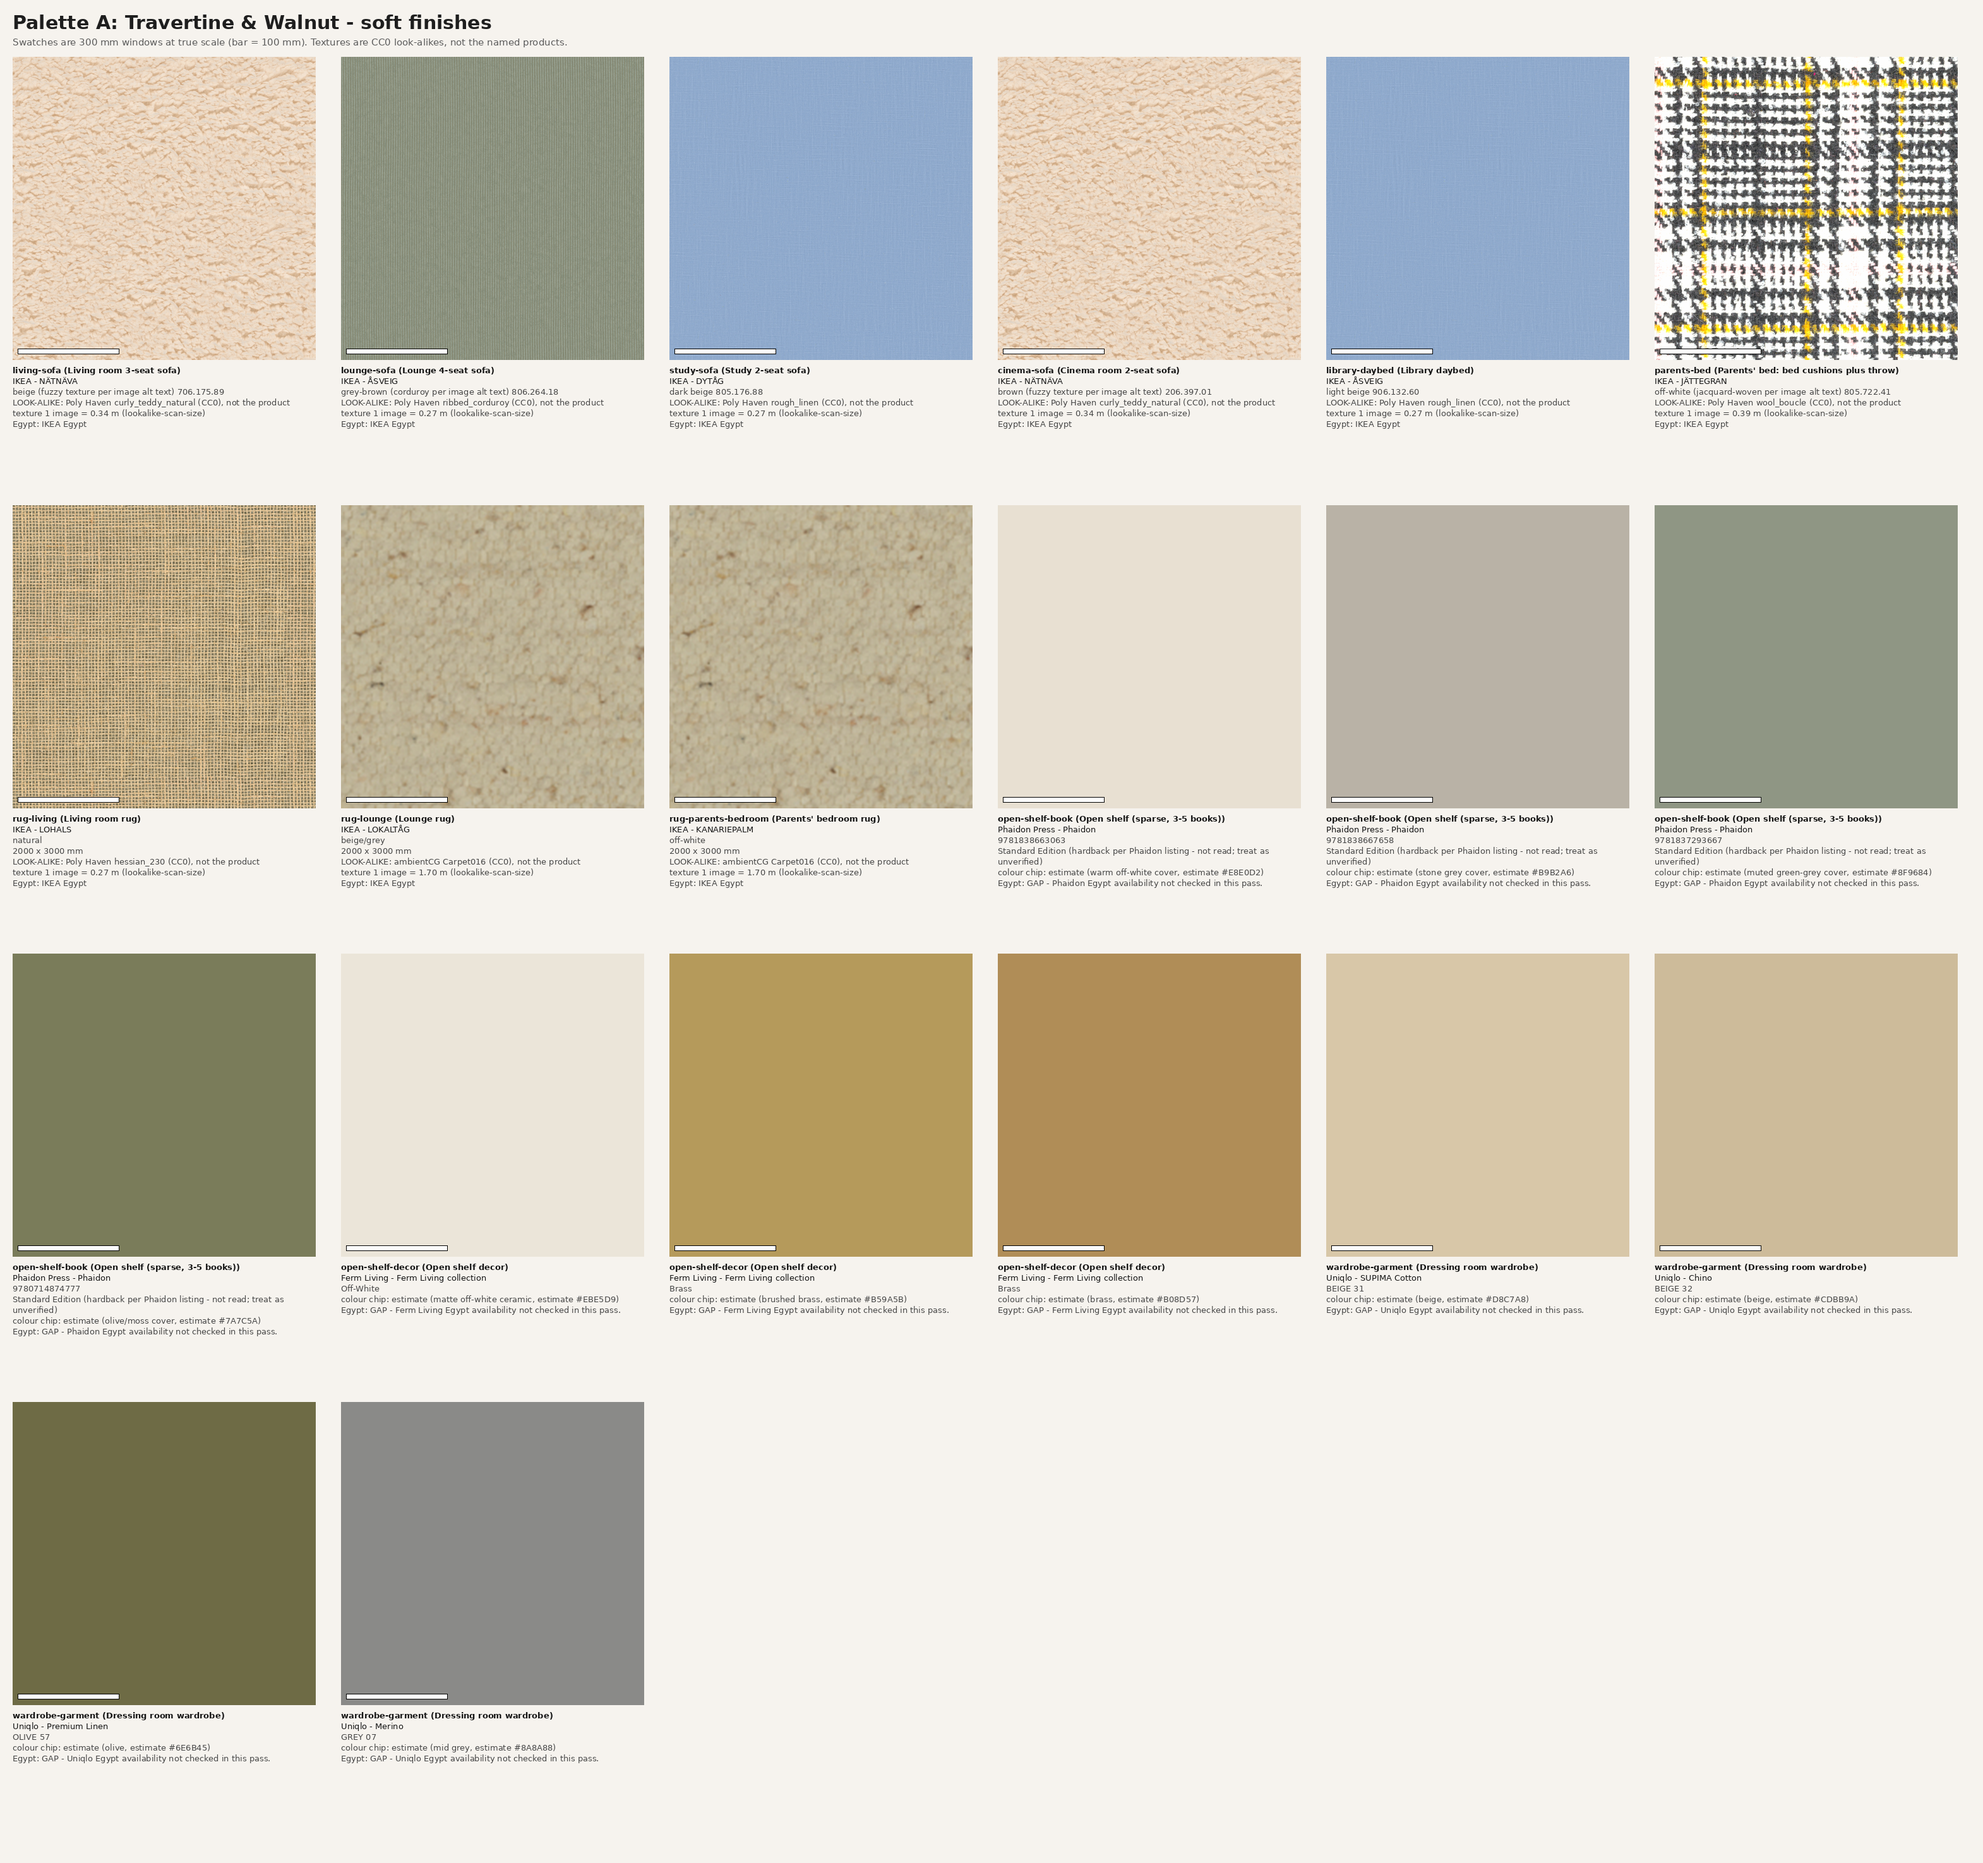
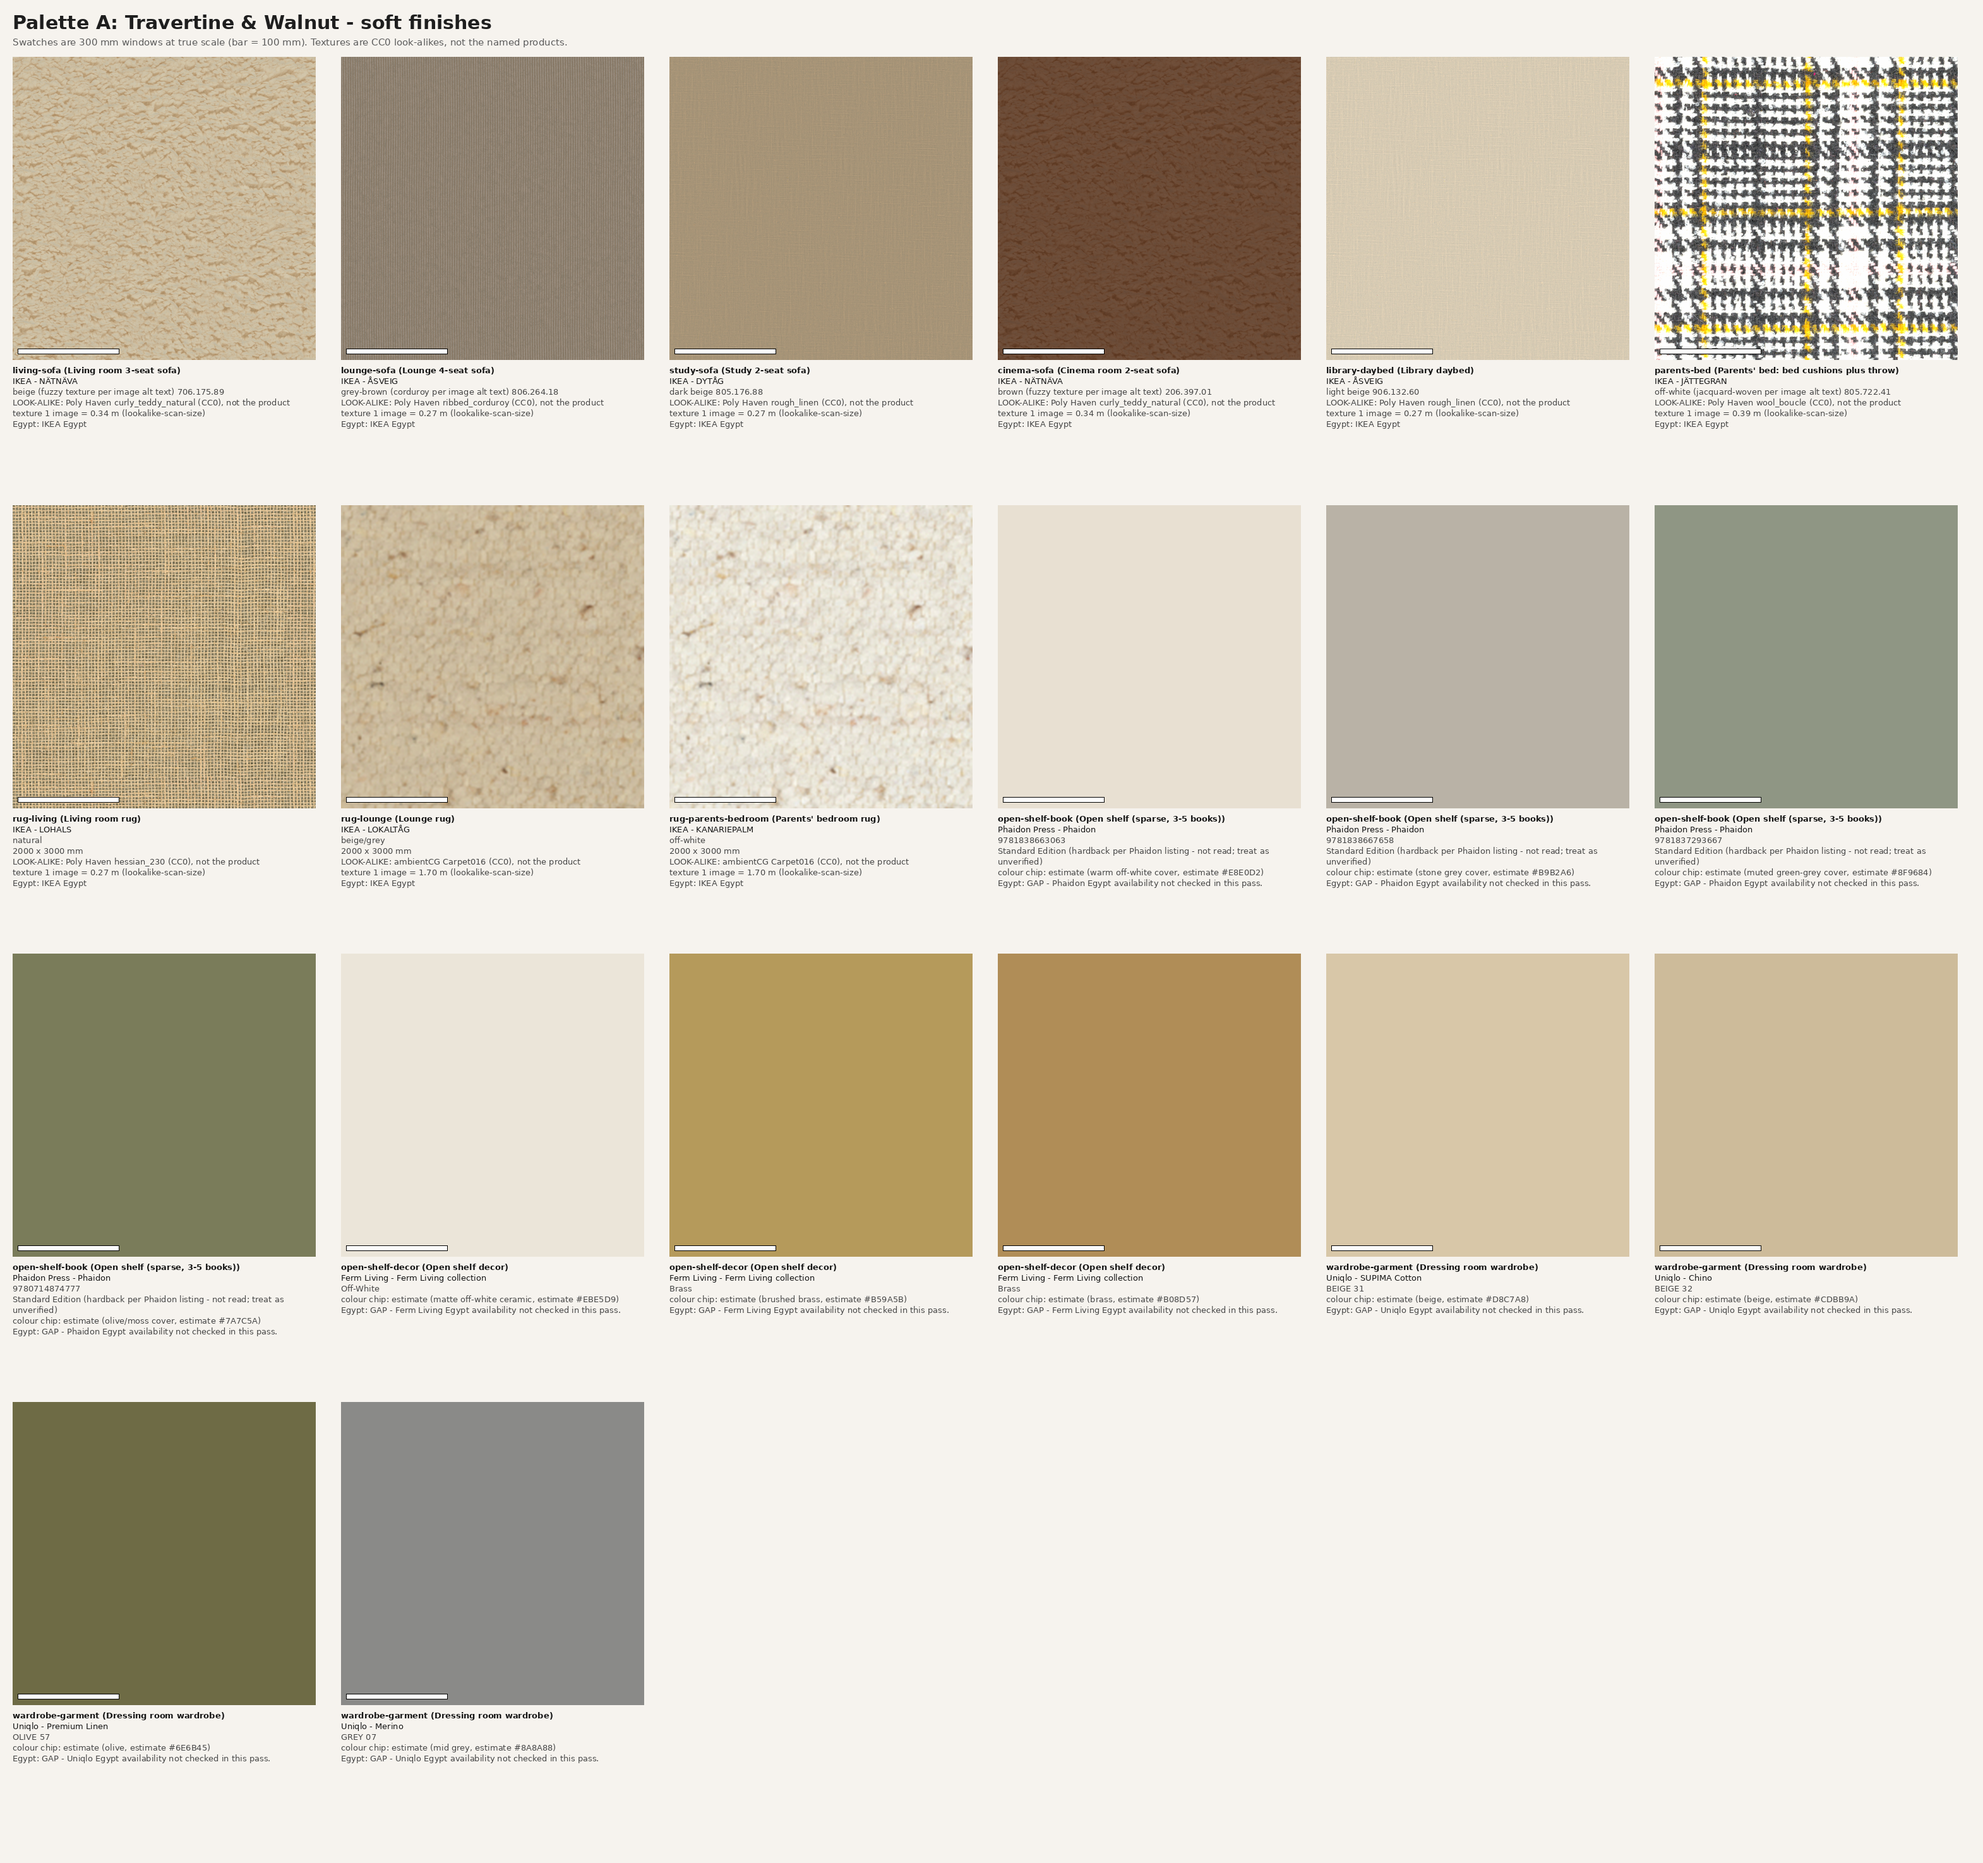
interior: soft colour from name, tables, scene-spec tests

Changed region(s): [[0.3121, 0.0312, 0.8427, 0.2183], [0.3121, 0.2495, 0.4994, 0.4366], [0.0, 0.0312, 0.1873, 0.2183]]

diff --git a/src/archpipe/interior/tables.py b/src/archpipe/interior/tables.py
@@ -1,0 +1,50 @@
+"""Markdown product tables for the finish palettes (generated; never hand-edited). No prices."""
+from __future__ import annotations
+
+from . import finishes as F
+
+
+def _fmt(p):
+    f = p.get("format_mm") or {}
+    return " x ".join(str(f[k]) for k in ("w", "l", "t") if f.get(k)) + " mm" if f else ""
+
+
+def table(pal: dict, group: str) -> str:
+    rows = ["| id | use | maker, range | colour | format / finish | LRV | Egypt | maker page | look-alike (not the product) | scale |",
+            "|---|---|---|---|---|---|---|---|---|---|"]
+    for it in pal["items"]:
+        if it["group"] != group:
+            continue
+        p, la, eg = it["product"], it.get("lookalike"), it.get("egypt") or {}
+        sc = ""
+        if la:
+            tm, basis = F.texture_scale_m(it)
+            sc = f"{tm:.2f} m ({basis})"
+        lrv = f"{p['lrv']} ({p.get('lrv_source', '')[:40]})" if p.get("lrv") is not None else "n/a"
+        egt = f"[{eg['supplier']}]({eg['url']})" if eg.get("available") is True else "GAP: " + str(eg.get("gap") or "unknown").split(". ")[0][:70]
+        rows.append("| {} | {} | {} {} | {} {} | {} {} | {} | {} | [page]({}) | {} | {} |".format(
+            it["id"], it.get("use", ""), p.get("maker") or "", p.get("range") or p.get("name") or "",
+            p.get("colour_name") or "", p.get("colour_code") or "", _fmt(p), p.get("finish") or "", lrv, egt,
+            it["source"]["url"],
+            f"{la['maker_site']} [{la['id']}]({la['url']}) {la['licence']}" if la else "flat colour / chip", sc).replace("  ", " "))
+    return "\n".join(rows)
+
+
+def maintenance(pal: dict) -> str:
+    out = []
+    for it in pal["items"]:
+        m = it.get("maintenance")
+        if m and m.get("note"):
+            out.append(f"- **{it['id']}**: {m['note']} ([source]({m.get('url')})): \"{(m.get('quote') or '')[:200]}\"")
+    return "\n".join(out)
+
+
+def cushion_schedule(pal: dict) -> str:
+    rows = ["| sofa / bed | item | maker, range | colour | size | composition | Egypt |", "|---|---|---|---|---|---|---|"]
+    for it in pal["items"]:
+        if it["group"] == "soft" and any(k in it["id"] for k in ("cushion", "throw", "sofa", "daybed", "parents-bed")):
+            p, eg = it["product"], it.get("egypt") or {}
+            rows.append(f"| {it.get('use', '')} | {it['id']} | {p.get('maker')} {p.get('range') or p.get('name')} | "
+                        f"{p.get('colour_name') or ''} {p.get('colour_code') or ''} | {_fmt(p)} | {p.get('composition') or 'not stated'} | "
+                        f"{'yes' if eg.get('available') is True else 'GAP'} |")
+    return "\n".join(rows)

diff --git a/src/archpipe/interior/palette_scene.py b/src/archpipe/interior/palette_scene.py
@@ -57,12 +57,31 @@ def load_colours(root: Path = finishes.PALETTE_DIR) -> dict:
     return json.loads(f.read_text())["colours"] if f.exists() else {}
 
 
+# Soft-goods colour words -> sRGB hex. OUR ESTIMATES of what the maker's colour name looks like on a sofa; the look-alike
+# image supplies only the weave, never the colour (a linen scan's own mean is sky blue). Longest phrase wins.
+NAME_HEX = {"dark brown": "#4a3426", "dark green": "#3d4a36", "light brown": "#b8987a", "dark grey": "#4a4a48",
+            "yellow-brown": "#b88a4a", "light beige": "#d9ccb4", "light grey-brown": "#b0a698", "light grey": "#c4c1ba",
+            "grey-brown": "#8f8272", "dark beige": "#a89578", "unbleached": "#e6dfcf", "off-white": "#e6e0d2",
+            "natural": "#c0aa84", "brown": "#6b4a35", "grey": "#8a8a88", "beige": "#c9b89a", "olive": "#6b6a3f",
+            "taupe": "#a39786", "green": "#5a6a4a", "white": "#ece8e0", "cream": "#e4dac4"}
+
+
+def name_hex(colour_name: str | None) -> str | None:
+    low = (colour_name or "").lower()
+    for k in sorted(NAME_HEX, key=len, reverse=True):
+        if k in low:
+            return NAME_HEX[k]
+    return None
+
+
 def item_spec(item: dict, library_root: Path, colours: dict | None = None) -> dict:
     colours = load_colours() if colours is None else colours
     la = item.get("lookalike")
     p = item["product"]
     lrv = p.get("lrv")
     hx = (colours.get(item["id"]) or {}).get("hex")
+    if not hx and item.get("group") == "soft":
+        hx = name_hex(p.get("colour_name"))
     if la is None:                                   # flat finish (paint, lacquer): colour + LRV, no image
         if not hx:
             raise ValueError(f"{item['id']}: flat finish needs a render colour in render-colours.json")

diff --git a/tests/interior/test_finishes.py b/tests/interior/test_finishes.py
@@ -108,3 +108,29 @@ class RealPalettes(unittest.TestCase):
 
 if __name__ == "__main__":
     unittest.main()
+
+
+class SceneSpec(unittest.TestCase):
+    LIB = Path.home() / "archpipe" / "assets" / "library"
+
+    @unittest.skipUnless(PALETTES and (Path.home() / "archpipe/assets/library/materials").exists(), "needs palettes + library")
+    def test_scene_tile_m_equals_derived_scale_not_the_old_policy(self):
+        from archpipe.interior import palette_scene as PS
+        pal = F.load_palette(PALETTES[0])
+        specs = PS.palette_materials(pal, self.LIB)
+        self.assertIn("travertine", specs)
+        floor = next(i for i in pal["items"] if i["slot"] == "floor-living")
+        self.assertAlmostEqual(specs["travertine"]["tile_m"], F.texture_scale_m(floor)[0], places=3)
+        self.assertNotEqual(specs["travertine"]["tile_m"], 0.6)   # RF's assumed policy value
+
+    def test_soft_colour_comes_from_the_name_not_the_scan(self):
+        from archpipe.interior import palette_scene as PS
+        self.assertEqual(PS.name_hex("dark brown"), "#4a3426")
+        self.assertEqual(PS.name_hex("light grey-brown"), "#b0a698")   # longest phrase wins over "grey"
+        self.assertIsNone(PS.name_hex("zzz"))
+
+    def test_flat_finish_without_colour_refuses(self):
+        from archpipe.interior import palette_scene as PS
+        it = good_item(); it["lookalike"] = None; it["slot"] = "wall-paint"; it["group"] = "hard"
+        with self.assertRaises(ValueError):
+            PS.item_spec(it, self.LIB, colours={})
